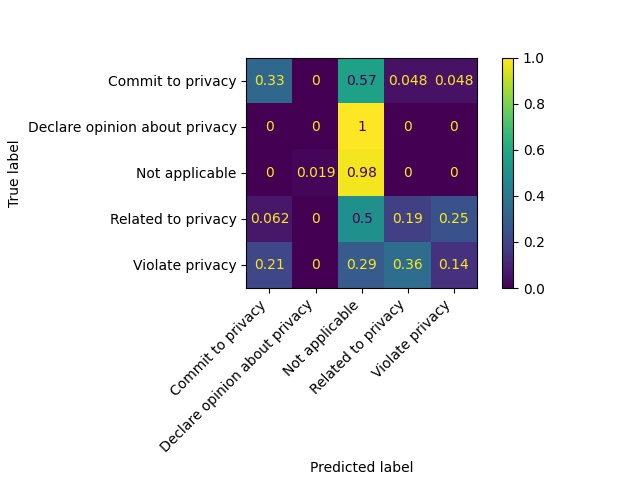
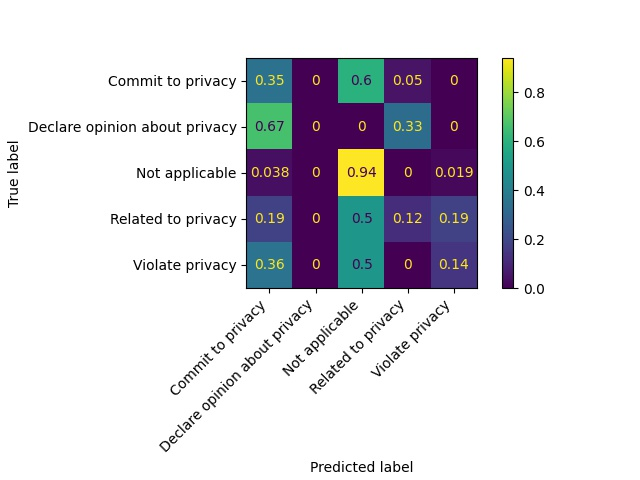
same for dev set, results werent that close...

diff --git a/AIclassifier.py b/AIclassifier.py
@@ -297,8 +297,8 @@ for i,(token,value) in enumerate(zip(words_to_numbers, importances)):
 #    print('Feature:',feature[1],'Score:',feature[0])
 
 # Predicting
-#predictions = model.predict(dev_matrix_array)
-predictions = model.predict(test_matrix_array)
+predictions = model.predict(dev_matrix_array)
+#predictions = model.predict(test_matrix_array)
 
 # casually printing results
 #for sent, pred in zip(sents_train,predictions):
@@ -312,25 +312,25 @@ pred_list = [pred for pred in predictions]
 labels=[1,3,5,4,2]
 path='output/AI Classifier/1Label_confusion_matrix_NormTrue.jpg'
 display_labels=['Commit to privacy', 'Declare opinion about privacy','Not applicable','Related to privacy','Violate privacy']
-#create_confusion_matrix(dev_list, pred_list, "true", path, labels, display_labels)
-create_confusion_matrix(test_list, pred_list, "true", path, labels, display_labels)
+create_confusion_matrix(dev_list, pred_list, "true", path, labels, display_labels)
+#create_confusion_matrix(test_list, pred_list, "true", path, labels, display_labels)
 path='output/AI Classifier/1Label_confusion_matrix_NonNorm.jpg'
-#create_confusion_matrix(dev_list, pred_list, None, path, labels, display_labels)
-create_confusion_matrix(test_list, pred_list, None, path, labels, display_labels)
+create_confusion_matrix(dev_list, pred_list, None, path, labels, display_labels)
+#create_confusion_matrix(test_list, pred_list, None, path, labels, display_labels)
 
 # FLAG - CHECK IF CONFUSION MATRIX IS CORRECT FOR EVERY LABEL
 #path='output/AI Classifier/1labelSGDPredictionsStatsDev.txt'
 #path='output/AI Classifier/1labelRidgePredictionsStatsDev.txt'
-#path='output/AI Classifier/1labelPredictionsStatsDev.txt'
-path='output/AI Classifier/1labelPredictionsStatsTest.txt'
+path='output/AI Classifier/1labelPredictionsStatsDev.txt'
+#path='output/AI Classifier/1labelPredictionsStatsTest.txt'
 os.makedirs(os.path.dirname(path), exist_ok=True)
 with open(path, 'w') as file:
     print("Performance measures - Unigram Dictionary \n", file=file)
     #print("Performance measures - Mixed Dictionary - Adaboost\n", file=file)
     #print("Performance measures - Bigram Dictionary\n", file=file)
 #write_output_stats_file(path, "Mixed", test_labels_primary, predictions, labels)
-#write_output_stats_file(path, "Dev", dev_labels_primary, predictions, labels)
-write_output_stats_file(path, "Test", test_labels_primary, predictions, labels)
+write_output_stats_file(path, "Dev", dev_labels_primary, predictions, labels)
+#write_output_stats_file(path, "Test", test_labels_primary, predictions, labels)
 
 # TO DO: WRITE PREDICTIONS JSON FILE -> LEARN HOW TO TRANSFORM ADABOOST OUTPUT IN DICT ( LIST OF ({"text":sentence['text'], "label":label}))
 #write_predictions_file("Dev", dev_pred_dict)

diff --git a/partition.py b/partition.py
@@ -21,9 +21,9 @@ def create_sent_label_dict(sents, labels):
 
 # Writes json of partition set, each entry is the sentence associated with its labels
 def write_partition_file(partition_dict, name):
-    path = 'output/partition/multilabeldata_70'+name+'.json'
+    path = 'output/partition/multilabeldata_'+name+'.json'
     os.makedirs(os.path.dirname(path), exist_ok=True)
-    with open('output/partition/multilabeldata_70'+name+'.json', 'w') as file:
+    with open('output/partition/multilabeldata_'+name+'.json', 'w') as file:
         file.write(json.dumps(partition_dict, indent=4, ensure_ascii=False))
 
 # creating list of labels and count its distribution
@@ -98,8 +98,8 @@ for l1,l2 in zip(labels1,labels2):
 #  CHECK IF LABELS LIST ARE BEING BUILT CORRECTLY - CHECKED
 
 # Partitions data into 80% trainset and remaining 20%
-#sents_train, sents_test, labels_train, labels_test = train_test_split(sents,labels, test_size=0.2, stratify=labels, random_state=1111111)
-sents_train, sents_test, labels_train, labels_test = train_test_split(sents,labels, test_size=0.3, stratify=labels, random_state=1111111)
+sents_train, sents_test, labels_train, labels_test = train_test_split(sents,labels, test_size=0.2, stratify=labels, random_state=1111111)
+#sents_train, sents_test, labels_train, labels_test = train_test_split(sents,labels, test_size=0.3, stratify=labels, random_state=1111111)
 
 # Partitions remaining 20% into dev set (10%) and test set (10%)
 sents_test, sents_dev, labels_test, labels_dev = train_test_split(sents_test,labels_test, test_size=0.5, stratify=labels_test, random_state=1111111)
@@ -125,7 +125,7 @@ dev_labels_ref_list = [sent['label'] for sent in dev_dict]
 test_labels_ref_list = [sent['label'] for sent in test_dict]
 
 # Multilabel distribution count + chart
-path= 'output/partition/multilabelDistribution70.txt'
+path= 'output/partition/multilabelDistribution.txt'
 os.makedirs(os.path.dirname(path), exist_ok=True)
 with open(path, 'w') as file:
     print("Distribution of labels\n", file=file)
@@ -151,7 +151,7 @@ dev_ref_primary_label = [label[0] for label in dev_labels_ref_list]
 test_ref_primary_label = [label[0] for label in test_labels_ref_list]
 
 ### OTHER APPROACHES FOR CHOOSING THE LABEL FOR EVALUATION -- check start of implementation at the end of the code
-path= 'output/partition/1labelDistribution70.txt'
+path= 'output/partition/1labelDistribution.txt'
 os.makedirs(os.path.dirname(path), exist_ok=True)
 with open(path, 'w') as file:
     print("Distribution of labels\n", file=file)
